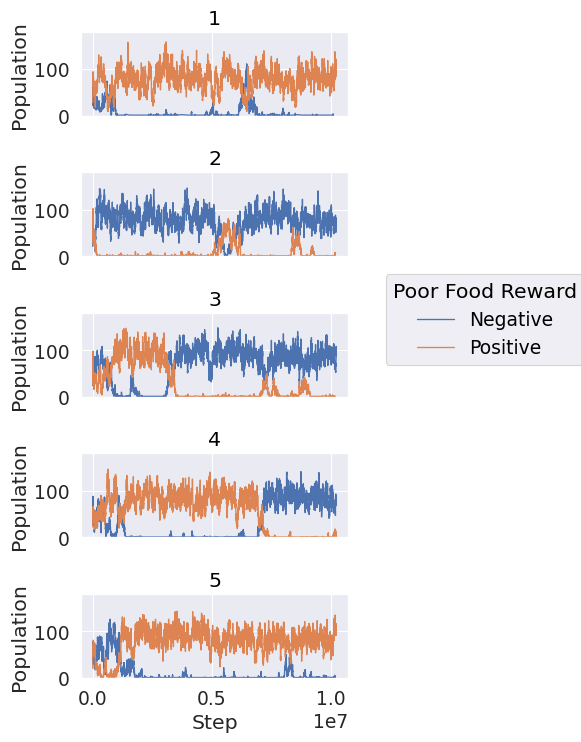
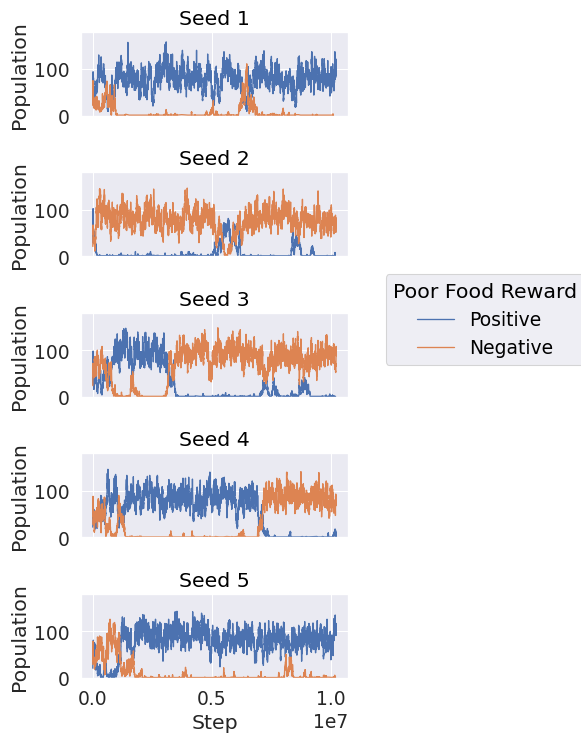
ALIFE

diff --git a/src/body.tex b/src/body.tex
@@ -246,9 +246,9 @@ As a baseline environment, we use the setting where food is always regenerated i
   \centering
   \includegraphics[width=8cm]{comp-metabo.png}
   \caption{
-    Comparison of evolved rewards between different metabolic balances.
+    Comparison of evolved rewards between different metabolic balances by different colors.
+    The upper row shows the reward weight for food ($w_{\mathrm{food}}$), and the lower row shows the reward weight for action ($w_{\mathrm{act}}$).
     Each line shows the reward weight averaged over all agents alive at that time, while thin lines show the averages within one random seed.
-    Different colors indicate different metabolic balances.
   }\label{figure:result-metabolism}
 \end{figure}
 
@@ -267,7 +267,7 @@ To investigate the effect of metabolic balance on rewards, we run simulations wi
   }\label{figure:actnorm-age}
 \end{figure}
 
-\Cref{figure:result-metabolism} compares the results between the baseline, \texttt{x2 Active Metabolism}, and \texttt{x2 Basic Metabolism}. Each line shows the reward weight averaged over all agents alive at that time, while thin lines show the average within one random seed, resulting in five lines per different setting. In the two settings other than the baseline, we don't see any case where action rewards are significantly positive because of more severe energy consumption. Interestingly, we observe some cases with large food rewards and small action rewards only when the basic metabolism is doubled. To investigate the reason, we plot the learning curve for the average of action magnitude ($|a_{t}^{i}|$) over age for agents that lived longer than $1e5$ steps. We can observe that the average action magnitude is lower than $50$ for agents in their early ages, and doubling basic metabolism is harsher for younger agents. Surprisingly, in the double basic metabolism setting, agents tend to output larger actions, especially in their later lives, while they have more negative action rewards. This result shows that the strongness of survival pressure at early ages affects more on the shape of the reward function. It is also interesting that none of the agents in the baseline lived longer than $\num{5e8}$ steps, which implies that more harsh environmental conditions can lead to better rewards in terms of an individual's longevity.
+\Cref{figure:result-metabolism} compares the results between the baseline, \texttt{x2 Active Metabolism}, and \texttt{x2 Basic Metabolism}. The upper row shows the reward weight for food ($w_{\mathrm{food}}$), and the lower row shows the reward weight for action ($w_{\mathrm{act}}$). Each line shows the reward weight averaged over all agents alive at that time, while thin lines show the average within one random seed, resulting in five lines per different setting. In the two settings other than the baseline, we don't see any case where action rewards are significantly positive because of more severe energy consumption. Interestingly, we observe some cases with large food rewards and small action rewards only when the basic metabolism is doubled. To investigate the reason, we plot the learning curve for the average of action magnitude ($|a_{t}^{i}|$) over age for agents that lived longer than $1e5$ steps. We can observe that the average action magnitude is lower than $50$ for agents in their early ages, and doubling basic metabolism is harsher for younger agents. Surprisingly, in the double basic metabolism setting, agents tend to output larger actions, especially in their later lives, while they have more negative action rewards. This result shows that the strongness of survival pressure at early ages affects more on the shape of the reward function. It is also interesting that none of the agents in the baseline lived longer than $\num{5e8}$ steps, which implies that more harsh environmental conditions can lead to better rewards in terms of an individual's longevity.
 
 \begin{figure}[t]
   \begin{subfigure}[t]{4cm}
@@ -289,7 +289,8 @@ To investigate the effect of metabolic balance on rewards, we run simulations wi
   \includegraphics[width=8cm]{comp-loc.png}
   \caption{
     Comparison of evolved rewards between different food settings by different colors.
-    Similar to \Cref{figure:result-metabolism}, thin lines show the averages per different random seed.
+    The upper row shows the reward weight for food ($w_{\mathrm{food}}$), and the lower row shows the reward weight for action ($w_{\mathrm{act}}$).
+    Each line shows the reward weight averaged over all agents alive at that time, while thin lines show the averages within one random seed.
   }\label{figure:result-foodloc}
 \end{figure}
 
@@ -361,50 +362,51 @@ In the experiments so far, there is only one kind of food with $e_{\mathrm{food}
 
 \begin{figure}[t]
   \centering
-  \includegraphics[width=8cm]{poor-2d-sparse.png}
+  \includegraphics[width=8cm]{dyn-poor.png}
   \caption{
     Evolved rewards with poor foods.
-    The x-axis shows the weight for the reward for poor foods ($w_{\mathrm{poor}}$), and the y-axis shows the weight for the action reward ($w_{\mathrm{act}}$).
-    Color corresponds to the food reward ($w_{\mathrm{food}}$).
-    Different marker shapes correspond to runs with different random seeds.
+    From top to bottom, each row shows the reward weight for food ($w_{\mathrm{food}}$), the reward weight for poor food ($w_{\mathrm{poor}}$), and the reward weight for action ($w_{\mathrm{act}}$).
+    Each line shows the reward weight averaged over all agents alive at that time, while thin lines show the averages within one random seed.
   }\label{figure:result-poor}
 \end{figure}
 
 \begin{figure}[t]
   \centering
-  \includegraphics[width=8cm]{poor-pop.png}
+  \includegraphics[width=6cm]{poor-pop.png}
   \caption{
-    The population of agents with positive or negative rewards for poor foods.
+    The population of agents with positive or negative rewards for poor foods in each seed.
+    Blue lines show the population of agents with positive reward for poor foods, while orange lines shows the population of agents with negative ones.
   }\label{figure:pop-poor}
 \end{figure}
 
-\Cref{figure:result-poor} shows the reward weights of agents born in the last $1\%$ of steps ($\num{1e5}$ steps) with 5 random seeds in the environment with poor foods. This figure shows the food rewards ($w_\mathrm{food}$) only by colors because they are almost always positive. We can see that the evolved rewards have great diversity, forming four groups with high/low action or poor food rewards. On the other hand, within a single seed, the evolved agents have almost identical genotypes and show no diversity. Thus, we can say that rewards for actions and poor foods are not very important in this environment, even if they help conserve or acquire energy. This suggests that some additional factors may be needed for taste diversity to evolve.
+\Cref{figure:result-poor} shows the evolution of reward weights with poor foods. The thick line shows the reward weight averaged over all agents alive at that time, while thin lines show the average between each random seed. From top to bottom, each row shows the reward weight for food ($w_{\mathrm{food}}$), the reward weight for poor food ($w_{\mathrm{poor}}$), and the reward weight for action ($w_{\mathrm{act}}$). Same as previous experiments, we used $5$ different random seeds. We can see that the reward weight for nomal food ($w_{\mathrm{food}}$) is consistently positive, while the other two rewards have great diversity. Thus, we can say that rewards for actions and poor foods are not very important in this environment, even if they help conserve or acquire energy.
 
-To show the instability of rewards for poor foods, we compare the population of agents with positive and negative poor food rewards in \cref{figure:pop-poor}.
+To see whether speciation in terms of different rewards for poor foods happening, we compare the population of groups with positive or negative poor food rewards in \Cref{figure:pop-poor}.
+Interestingly, we rarely see that the groups with different poor food rewards co-exist, although it is benefitial to avoiding population densification. They sometimes co-exist, but eventually one group take over others. Thus, we can see that there is rather an advantage in forming groups with a single genetic population in this environment. This result suggests that speciation may need alternative factors, such as geographic isolation and sexual reproduction.
 
 \begin{figure}[t]
   \centering
-  \includegraphics[width=8cm]{poison-2d-sparse.png}
+  \includegraphics[width=8cm]{dyn-poison.png}
   \caption{
-    Evolved rewards with poor foods.
-    The x-axis shows the weight for the reward for poor foods ($w_{\mathrm{poor}}$), and the y-axis shows the weight for the action reward ($w_{\mathrm{act}}$).
-    Color corresponds to the food reward ($w_{\mathrm{food}}$).
-    Different marker shapes correspond to runs with different random seeds.
+    Evolved rewards with poisonous foods.
+    From top to bottom, each row shows the reward weight for food ($w_{\mathrm{food}}$), the reward weight for poisonous food ($w_{\mathrm{poison}}$), and the reward weight for action ($w_{\mathrm{act}}$).
+    Each line shows the reward weight averaged over all agents alive at that time, while thin lines show the averages within one random seed.
   }\label{figure:result-poison}
 \end{figure}
 
 \begin{figure}[t]
   \centering
-  \includegraphics[width=8cm]{poison-pop.png}
+  \includegraphics[width=6cm]{poison-pop.png}
   \caption{
     The population of agents with positive or negative rewards for poor foods.
-  }\label{figure:poison-pop}
+    Blue lines show the population of agents with positive poison rewards, while orange lines shows the population of agents with negative ones.
+  }\label{figure:pop-poison}
 \end{figure}
 
-\Cref{figure:result-poison} shows the results with poisonous foods. Like as the case with poor foods, rewards for normal foods are positive in all runs. The rewards for poisonous foods are consistently negative in most runs, as expected. Although in seed $5$ agents with positive poison rewards are dominant for a long time, but eventually agents with negative poison rewards branches and replace them, as shown in \Cref{figure:pop-poison}. In \Cref{figure:lh-poison}, we plot the agent's trajectory and reproduction record during this transition period (step $\num{9.8e6}$ to $\num{9.9e6}$) marked red in \Cref{figure:pop-poison}. Similar to the case shown in \Cref{figure:lh-poor}, agents with negative poison rewards produce many offspring in the right area of the environment, eventually replacing agents with positive food rewards. As this case study shows, there is strong selection pressure in this environment against rewards that favor poisons. Nevertheless, poison rewards can still be unstable sometimes. On the other hand, rewards for food are always positive in this environment, suggesting a high degree of robustness. This fact suggests that food rewards, which are always positive, are highly stable.
+
+\Cref{figure:result-poison} shows the evolution of reward weights with poisonous foods. Same as \Cref{figure:result-poor}, the thick line shows the reward weight averaged over all agents alive at that time, while thin lines show the average between each random seed. Again, we can see that the reward weight for nomal food ($w_{\mathrm{food}}$) is consistently positive. The other two reward are unstable and diverse, but we see that rewards for poison foods and actions are less often positive. We suspect that the existence of poisonous foods give stronger selection pressure to agents.
+
+We compare the population of groups with positive or negative poison rewards in \Cref{figure:pop-poison}. We can see the same tendency as the case with poor foods. We rarely see the co-existance of agents with different poison rewards, and a single genetic population is preffered.
 
 \section{Conclusion}
-In this paper, we propose a distributed evolutionary simulation to investigate the evolution of reward function.
-Our results show that biologically reasonable reward functions can evolve from randomly initialized ones given sufficient learning ability.
-We also find that some environmental conditions, including metabolic balance, food density, and food relocation, influence action rewards, while food rewards are consistently positive.
-Moreover, we examine the evolution of rewards for poor and poisonous rewards, finding that rewards for such less important foods can be unstable, although rewards for normal foods are consistenly positive.
+In this paper, we propose a distributed evolution framework with an energy-based birth and death model to study the evolution of reward function. Our GPU-based fast simulation enables to simulate millions of steps of evolution in a few hours. Our results show that biologically reasonable reward functions can evolve from randomly initialized ones. We also find that some environmental conditions, including metabolic balance, food density, and food relocation, can change the selection pressure and influence action rewards, while food rewards are consistently positive. Moreover, we examine the evolution of rewards for poor and poisonous rewards, finding that rewards for such less important foods can be unstable, although rewards for normal foods are consistenly positive. These results suggests that the evolution of reward function is lead by one nominal reward, in our case, the reward for normal food. The other components of rewards can be quite unstable even if they are benefitial for surival. One interesting future direction is to see the effect of competition between two species with, for example, in a predator-and-pray relationship.
